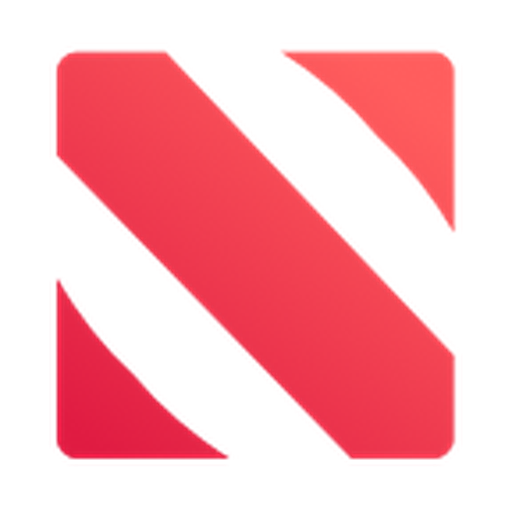
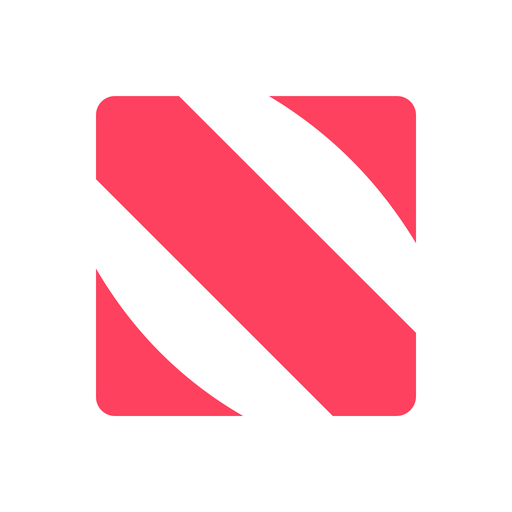
🍎 重做 Apple 批次：AppStore、AppleFitnessPlus、AppleMusic、AppleNews、TestFlight；移除 AppleTVPlus、Siri 与旧变体

Changed region(s): [[0.0938, 0.0938, 0.9062, 0.9062], [0.0938, 0.5312, 0.4688, 0.9062], [0.5312, 0.0938, 0.9062, 0.4688]]

diff --git a/icons/Media/README.md b/icons/Media/README.md
@@ -1,30 +1,29 @@
 # 🎬 Media / 影音流媒体
 
-> 共 **105** 个图标，**71** 个品牌
+> 共 **82** 个图标，**70** 个品牌
 
 | 品牌 | 图标文件 |
 |:---|:---|
 | `AbemaTV` | `AbemaTV.png ` |
 | `AfreecaTV` | `AfreecaTV.png ` |
-| `Bahamut` | `Bahamut.png Bahamut01.png ` |
+| `Bahamut` | `Bahamut.png ` |
 | `Bangumi` | `Bangumi.png ` |
-| `Bilibili` | `Bilibili.png Bilibili01.png Bilibili02.png Bilibili03.png Bilibili04.png Bilibili05.png Bilibili06.png Bilibili07.png Bilibili08.png Bilibili09.png ` |
-| `CatchPlay-Plus` | `CatchPlay-Plus.png CatchPlay-Plus01.png ` |
-| `DAZN` | `DAZN.png DAZN01.png DAZN02.png ` |
+| `Bilibili` | `Bilibili.png ` |
+| `CATCHPLAY` | `CATCHPLAY.png ` |
+| `DAZN` | `DAZN.png ` |
 | `DAnimeStore` | `DAnimeStore.png ` |
-| `DMMTV` | `DMMTV.png DMMTV01.png ` |
-| `Discovery-Plus` | `Discovery-Plus.png ` |
-| `Disney` | `Disney.png Disney01.png ` |
-| `Disney-Plus` | `Disney-Plus.png Disney-Plus01.png Disney-Plus02.png ` |
+| `DMMTV` | `DMMTV.png ` |
+| `DiscoveryPlus` | `DiscoveryPlus.png ` |
+| `Disney` | `Disney.png ` |
+| `DisneyPlus` | `DisneyPlus.png ` |
 | `Douyin` | `Douyin.png ` |
 | `ESPN-Plus` | `ESPN-Plus.png ESPN-Plus01.png ESPN-Plus02.png ` |
 | `Emby` | `Emby.png Emby01.png ` |
-| `F1TV` | `F1TV.png ` |
+| `F1TV` | `F1TV.png F1TV02.png ` |
 | `Fan` | `Fan.png ` |
 | `Fileball` | `Fileball.png ` |
 | `FujiTV` | `FujiTV.png ` |
-| `HBO` | `HBO.png HBO01.png HBO02.png HBO03.png ` |
-| `HOY` | `HOY.png ` |
+| `HBOMAX` | `HBOMAX.png HBOMAX01.png ` |
 | `HOYTV` | `HOYTV.png ` |
 | `HamiVideo` | `HamiVideo.png ` |
 | `Hanxiaoquan` | `Hanxiaoquan.png ` |
@@ -43,7 +42,7 @@
 | `NBA` | `NBA.png ` |
 | `NBC` | `NBC.png ` |
 | `NHK` | `NHK.png ` |
-| `Netflix` | `Netflix.png Netflix01.png Netflix02.png Netflix03.png Netflix04.png ` |
+| `Netflix` | `Netflix.png ` |
 | `Niconico` | `Niconico.png ` |
 | `NowE` | `NowE.png ` |
 | `Paramount` | `Paramount.png ` |

diff --git a/icons/Social/README.md b/icons/Social/README.md
@@ -1,17 +1,17 @@
 # 👥 Social / 社交
 
-> 共 **49** 个图标，**32** 个品牌
+> 共 **35** 个图标，**30** 个品牌
 
 | 品牌 | 图标文件 |
 |:---|:---|
-| `BBC` | `BBC.png BBC01.png BBC02.png ` |
-| `Bluesky` | `Bluesky.png Bluesky01.png ` |
+| `BBC` | `BBC.png ` |
+| `Bluesky` | `Bluesky.png ` |
 | `DingTalk` | `DingTalk.png ` |
 | `Discord` | `Discord.png ` |
 | `Facebook` | `Facebook.png ` |
-| `Instagram` | `Instagram.png Instagram01.png Instagram02.png Instagram03.png ` |
-| `Kakao` | `Kakao.png ` |
-| `Line` | `Line.png ` |
+| `Instagram` | `Instagram.png ` |
+| `KakaoTalk` | `KakaoTalk.png ` |
+| `LINE` | `LINE.png ` |
 | `LinkedIn` | `LinkedIn.png ` |
 | `Messenger` | `Messenger.png ` |
 | `Meta` | `Meta.png Meta01.png Meta02.png ` |
@@ -19,12 +19,11 @@
 | `Pipixia` | `Pipixia.png Pipixia01.png ` |
 | `Pixiv` | `Pixiv.png ` |
 | `QQ` | `QQ.png ` |
-| `Redbook` | `Redbook.png Redbook01.png ` |
-| `Reddit` | `Reddit.png Reddit01.png ` |
-| `Sina` | `Sina.png Sina01.png ` |
+| `RedNote` | `RedNote.png ` |
+| `Reddit` | `Reddit.png ` |
 | `Skype` | `Skype.png ` |
 | `Snapchat` | `Snapchat.png ` |
-| `Telegram` | `Telegram.png Telegram01.png Telegram02.png Telegram03.png ` |
+| `Telegram` | `Telegram.png ` |
 | `Tencent` | `Tencent.png ` |
 | `Threads` | `Threads.png ` |
 | `Tieba` | `Tieba.png Tieba01.png Tieba02.png ` |
@@ -34,5 +33,4 @@
 | `WhatsApp` | `WhatsApp.png ` |
 | `Wikipedia` | `Wikipedia.png ` |
 | `X` | `X.png ` |
-| `XiaoHongShu` | `XiaoHongShu.png ` |
 | `Zhihu` | `Zhihu.png ` |

diff --git a/icons/Apple/README.md b/icons/Apple/README.md
@@ -1,18 +1,16 @@
 # 🍎 Apple / 苹果生态
 
-> 共 **19** 个图标，**12** 个品牌
+> 共 **10** 个图标，**10** 个品牌
 
 | 品牌 | 图标文件 |
 |:---|:---|
-| `AppStore` | `AppStore.png AppStore01.png AppStore02.png AppStore03.png ` |
+| `AppStore` | `AppStore.png ` |
 | `Apple` | `Apple.png ` |
-| `AppleFitness` | `AppleFitness.png AppleFitness01.png AppleFitness02.png AppleFitness03.png ` |
+| `AppleFitnessPlus` | `AppleFitnessPlus.png ` |
 | `AppleMusic` | `AppleMusic.png ` |
 | `AppleNews` | `AppleNews.png ` |
 | `AppleTV` | `AppleTV.png ` |
-| `AppleTVPlus` | `AppleTVPlus.png ` |
-| `Siri` | `Siri.png ` |
 | `SiriAI` | `SiriAI.png ` |
-| `TestFlight` | `TestFlight.png TestFlight01.png ` |
+| `TestFlight` | `TestFlight.png ` |
 | `iCloud` | `iCloud.png ` |
 | `iCloudPrivateRelay` | `iCloudPrivateRelay.png ` |

diff --git a/icons/AI/README.md b/icons/AI/README.md
@@ -1,6 +1,6 @@
 # 🤖 AI / 人工智能服务
 
-> 共 **11** 个图标，**7** 个品牌
+> 共 **7** 个图标，**7** 个品牌
 
 | 品牌 | 图标文件 |
 |:---|:---|
@@ -8,6 +8,6 @@
 | `DeepSeek` | `DeepSeek.png ` |
 | `Doubao` | `Doubao.png ` |
 | `GeneralAI` | `GeneralAI.png ` |
-| `OpenAI` | `OpenAI.png OpenAI01.png OpenAI02.png OpenAI03.png OpenAI04.png ` |
+| `OpenAI` | `OpenAI.png ` |
 | `Perplexity` | `Perplexity.png ` |
 | `Poe` | `Poe.png ` |
